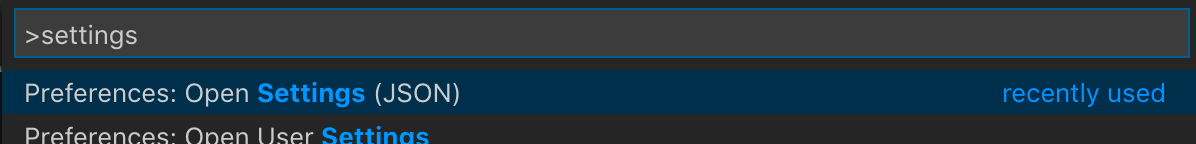
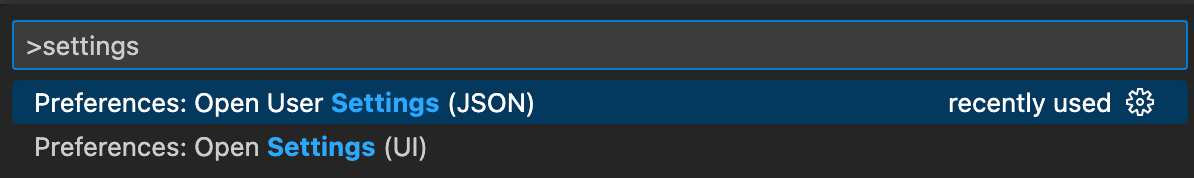
Fix menu item

Changed region(s): [[0.0, 0.4444, 1.0, 1.0], [0.0, 0.0556, 1.0, 0.4167]]

diff --git a/windows.md b/windows.md
@@ -104,7 +104,7 @@ With those compatibility things out of the way, you're ready to start the system
     ```
     This will prepare a program that we will use in the course.<br><br>
 14. <a name="vs-code-settings"></a> Next we will configure VS Code.<br><br>
-    Open VS Code and then press the keys <kbd>Ctrl</kbd>-<kbd>Shift</kbd>-<kbd>P</kbd>. Type in "Settings" and select the item that says `Preferences: Open Settings (JSON)`:<br><br>
+    Open VS Code and then press the keys <kbd>Ctrl</kbd>-<kbd>Shift</kbd>-<kbd>P</kbd>. Type in "Settings" and select the item that says `Preferences: Open User Settings (JSON)`:<br><br>
     <img src="./general-vscode-settings.png"><br><br>
     Once the settings file is open, we will want to add the settings below.<br><br>
     First of all, identify whether your settings file is empty or not. This is what an empty file looks like:<br><br>

diff --git a/linux.md b/linux.md
@@ -114,7 +114,7 @@
     ```
     This will prepare a program that we will use in the course.<br><br>
 13. <a name="vs-code-settings"></a> Next we will configure VS Code.<br><br>
-    Open VS Code and then press the keys <kbd>Ctrl</kbd>-<kbd>Shift</kbd>-<kbd>P</kbd>. Type in "Settings" and select the item that says `Preferences: Open Settings (JSON)`:<br><br>
+    Open VS Code and then press the keys <kbd>Ctrl</kbd>-<kbd>Shift</kbd>-<kbd>P</kbd>. Type in "Settings" and select the item that says `Preferences: Open User Settings (JSON)`:<br><br>
     <img src="./general-vscode-settings.png"><br><br>
     Once the settings file is open, we will want to add the settings below.<br><br>
     First of all, identify whether your settings file is empty or not. This is what an empty file looks like:<br><br>

diff --git a/macos.md b/macos.md
@@ -86,7 +86,7 @@
     ```
     This will prepare a program that we will use in the course.<br><br>
 13. <a name="vs-code-settings"></a> Next we will configure VS Code.<br><br>
-    Open VS Code and then press the keys <kbd>cmd</kbd>-<kbd>shift</kbd>-<kbd>P</kbd>. Type in "Settings" and select the item that says `Preferences: Open Settings (JSON)`:<br><br>
+    Open VS Code and then press the keys <kbd>cmd</kbd>-<kbd>shift</kbd>-<kbd>P</kbd>. Type in "Settings" and select the item that says `Preferences: Open User Settings (JSON)`:<br><br>
     <img src="./general-vscode-settings.png"><br><br>
     Once the settings file is open, we will want to add the settings below.<br><br>
     First of all, identify whether your settings file is empty or not. This is what an empty file looks like:<br><br>
